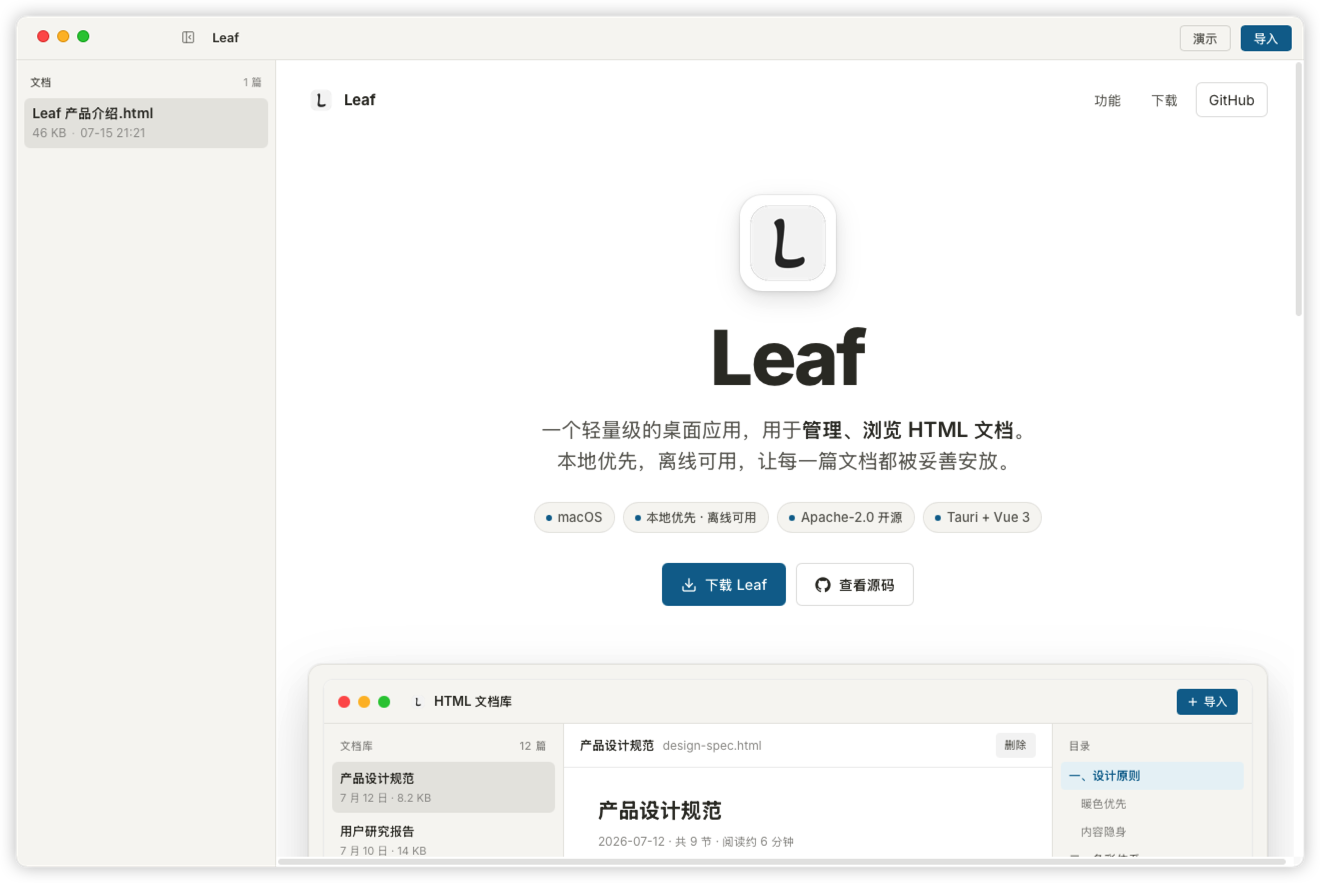
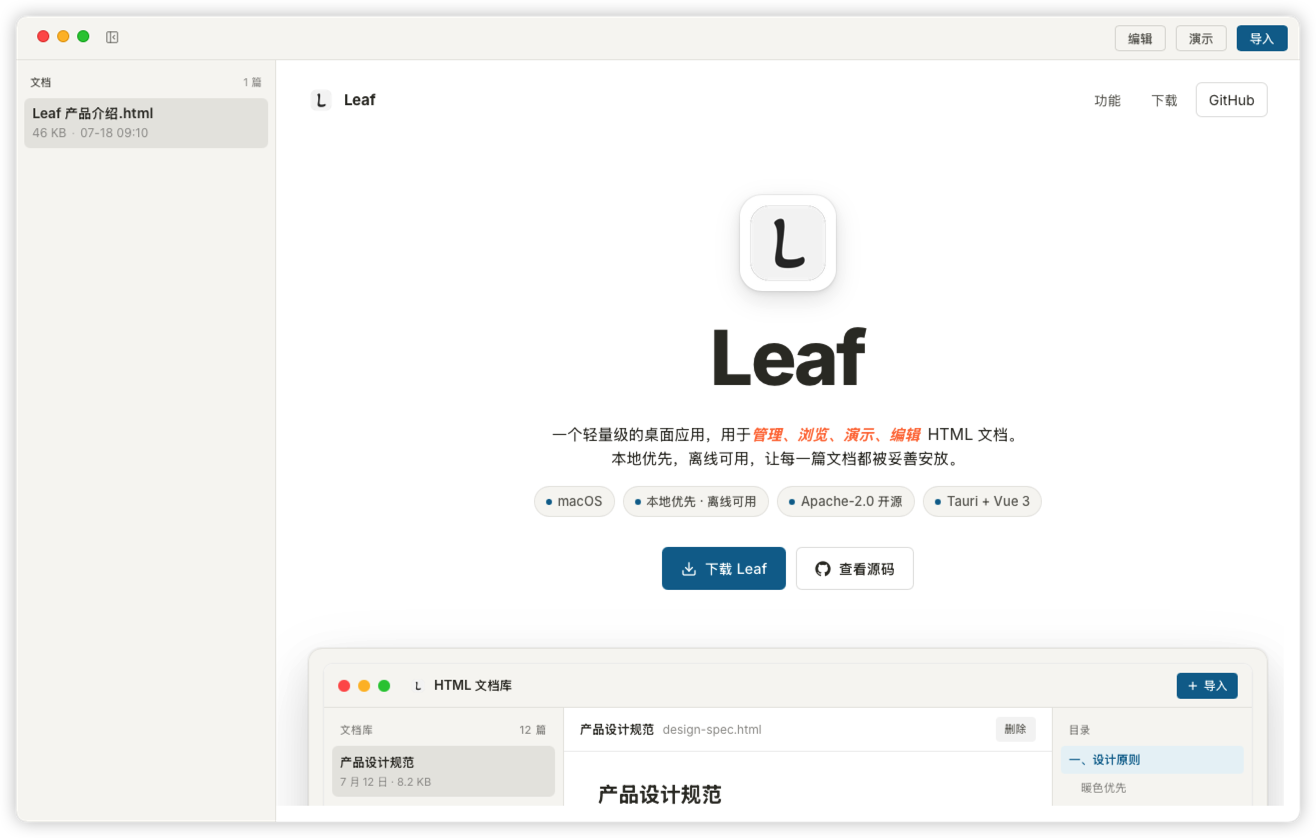
修复字号增减无效问题

diff --git a/src/utils/html.ts b/src/utils/html.ts
@@ -54,6 +54,39 @@ html{min-width:1024px;}
 <script id="_preview_nav">
 (function(){
   var ids=${anchorIds};
+  // 自实现字号增减：直接用 span[style=font-size:Npx] 包裹选区，
+  // 避免 execCommand("fontSize") 产生的 <font size> 与现代 CSS 混存的档位错乱、
+  // 整行影响、选区丢失等问题。
+  var STEP=2;                       // 每次增减 2px
+  var MIN_PX=10,MAX_PX=72;
+  function bumpFontSize(dir){
+    var sel=window.getSelection();
+    if(!sel||sel.rangeCount===0||sel.isCollapsed)return;
+    var range=sel.getRangeAt(0);
+    // 取选区起始元素当前计算字号作为基准
+    var sc=range.startContainer;
+    var refEl=(sc.nodeType===1)?sc:sc.parentElement;
+    if(!refEl)return;
+    var curPx=parseFloat(getComputedStyle(refEl).fontSize)||16;
+    var nextPx=Math.max(MIN_PX,Math.min(MAX_PX,Math.round(curPx)+dir*STEP));
+    if(nextPx===Math.round(curPx))nextPx+=dir;  // 至少变化 1px
+    nextPx=Math.max(MIN_PX,Math.min(MAX_PX,nextPx));
+    // 用 span 包裹选区内容并设置字号；surroundContents 要求选区起讫在同一元素内，
+    // 跨节点时先 extract + reinsert 规整。
+    try{
+      var span=document.createElement("span");
+      span.style.fontSize=nextPx+"px";
+      if(range.startContainer===range.endContainer||range.toString().length>0){
+        span.appendChild(range.extractContents());
+        range.insertNode(span);
+        // 把选区恢复到新 span 内，方便连续点击
+        var nr=document.createRange();
+        nr.selectNodeContents(span);
+        sel.removeAllRanges();
+        sel.addRange(nr);
+      }
+    }catch(err){}
+  }
   window.addEventListener("message",function(e){
     var d=e.data;
     if(!d)return;
@@ -65,7 +98,13 @@ html{min-width:1024px;}
       document.designMode=d.enabled?"on":"off";
     }else if(d.type==="exec"){
       // 执行格式化命令（bold/italic/fontSize/...）
-      try{document.execCommand(d.command,false,d.value||null);}catch(err){}
+      try{
+        if(d.command==="increaseFontSize"||d.command==="decreaseFontSize"){
+          bumpFontSize(d.command==="increaseFontSize"?1:-1);
+        }else{
+          document.execCommand(d.command,false,d.value||null);
+        }
+      }catch(err){}
     }else if(d.type==="get-html"){
       // 保存：先移除预览专用的注入节点，再序列化 outerHTML 回传父窗口
       var fix=document.getElementById("_preview_fix");

diff --git a/README.md b/README.md
@@ -4,7 +4,8 @@
 
 # Leaf
 
-AI 生成了太多 HTML 报告，但你找不到一个顺手的管理工具。**Leaf** 是一个轻量级的桌面应用，专为集中管理、安全浏览 HTML 文档而生。
+AI 生成了太多 HTML 报告，但你找不到一个顺手的管理工具？
+**Leaf** 是一个轻量级的桌面应用，用于管理、浏览 、编辑、演示 HTML 文档。
 
 [![License: Apache-2.0](https://img.shields.io/badge/license-Apache--2.0-blue.svg)](LICENSE)
 [![Platform: macOS](https://img.shields.io/badge/platform-macOS-lightgrey.svg)](#平台支持)
@@ -15,11 +16,13 @@ AI 生成了太多 HTML 报告，但你找不到一个顺手的管理工具。**
 
 ## 功能特性
 
-- **本地文档库** — 导入 AI 生成的 HTML 报告或资料，自动复制到统一的本地库目录管理
-- **自动元数据** — 导入时自动提取标题与摘要，告别未命名文档
-- **沙箱渲染** — 通过沙箱 iframe 安全渲染任意 HTML 文档，不用担心恶意代码
-- **目录提取** — 自动从文档中提取目录，快速跳转，长报告也不怕
-- **本地索引** — 基于 SQLite 索引，启动即用，离线可用，数据完全在本地
+- **本地文档库** ：导入 AI 生成的 HTML 报告或资料，自动复制到统一的本地库目录管理
+- **自动元数据** ：导入时自动提取标题与摘要，告别未命名文档
+- **沙箱渲染** ：通过沙箱 iframe 安全渲染任意 HTML 文档，不用担心恶意代码
+- **目录提取** ：自动从文档中提取目录，快速跳转，长报告也不怕
+- **本地索引** ：基于 SQLite 索引，启动即用，离线可用，数据完全在本地
+- **演示文档** ：窗口全屏演示模式，提供沉浸式的 html 演示体验；
+- **编辑文档** ：提供基本的文字内容和格式修改，让文档更符合需要；
 
 
 ## 下载安装